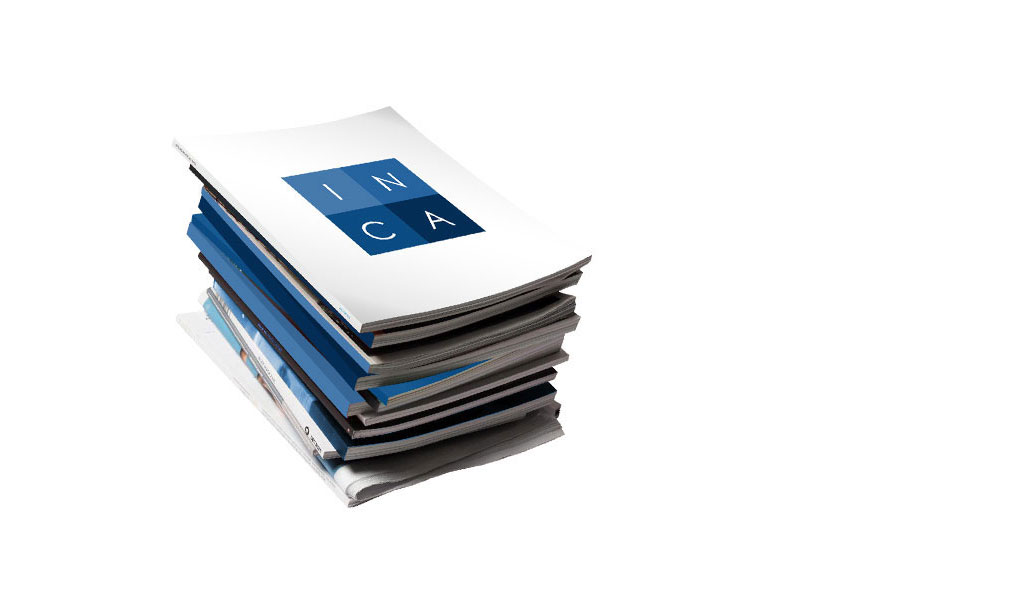
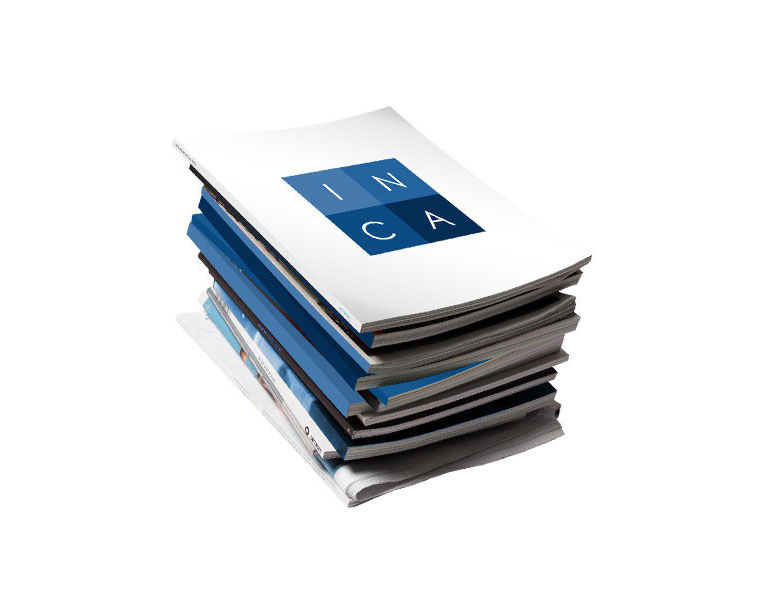
home layouts

Changed region(s): [[0.1837, 0.2492, 0.7653, 0.841], [0.4592, 0.1557, 0.5204, 0.218], [0.3367, 0.1557, 0.398, 0.218]]

diff --git a/styles/inca.less b/styles/inca.less
@@ -314,8 +314,8 @@ p > a:first-child {
 }
 
 .tag-newsletter {
-    background-position: bottom left;
-    background-size: contain;
+    background-position: bottom center;
+    background-size: auto;
     padding-bottom: 60%;
 }
 
@@ -334,6 +334,8 @@ p > a:first-child {
 
     .tag-newsletter {
         padding-bottom: 0;
+        background-size: contain;
+        background-position: bottom left;
     }
 
     .section__layout {
